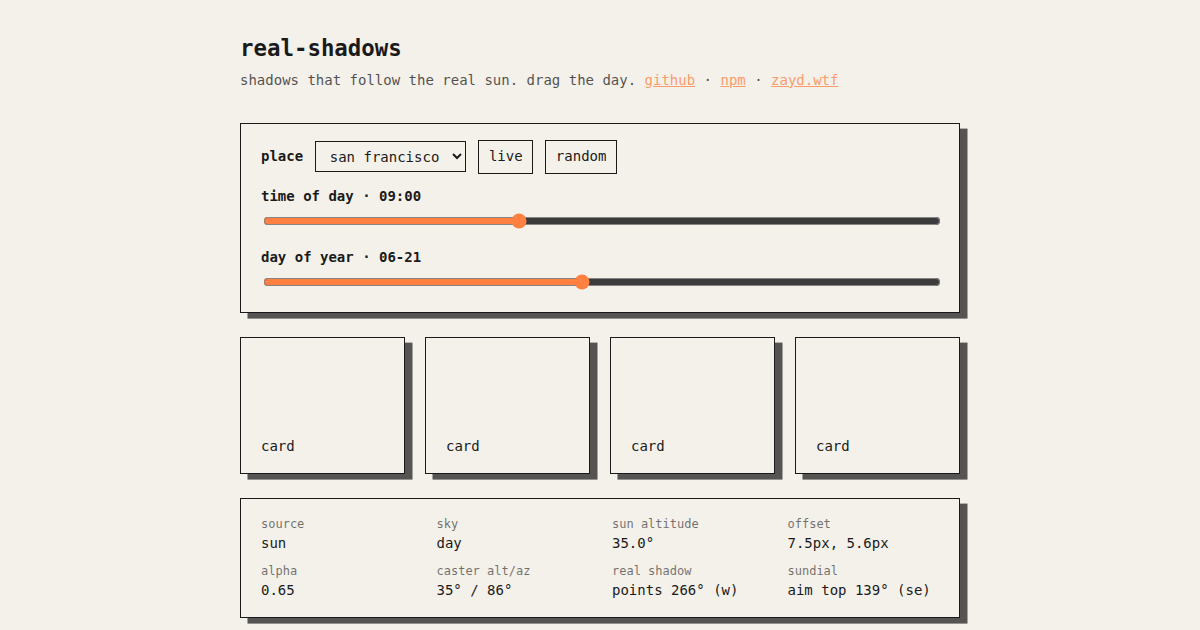
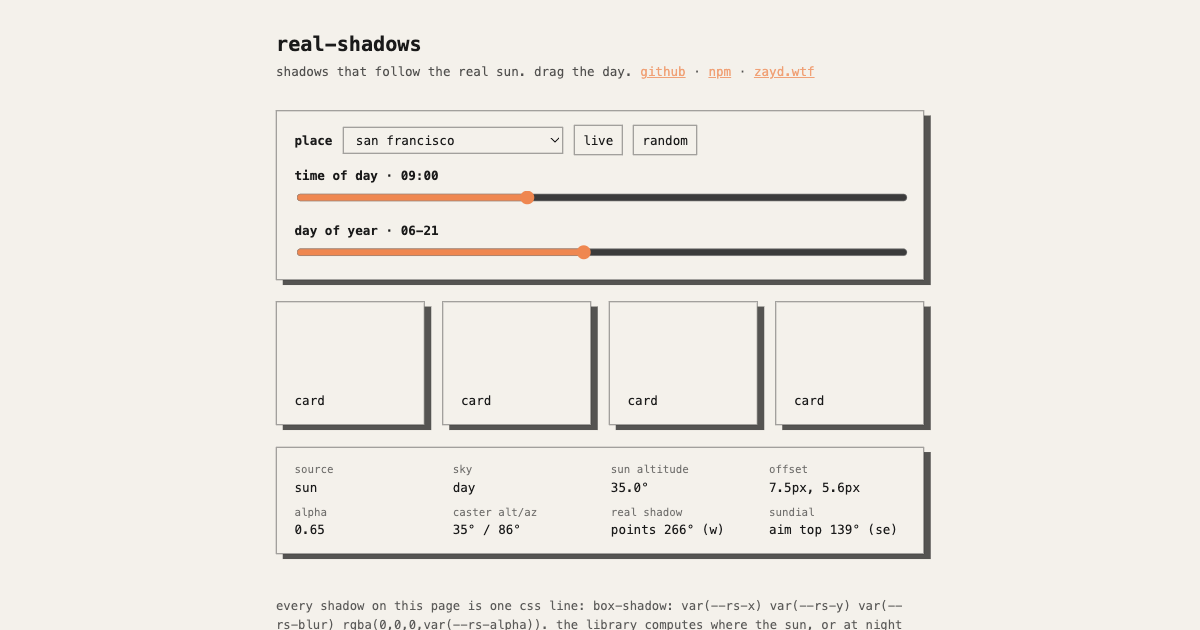
triple-check pass: fresh gif and og from the live ui, cli rejects unknown flags
- assets/demo.gif and assets/og.png re-recorded from the demo as it renders
  today (june 21 over san francisco, dawn to the moon takeover, 58 frames on
  one shared palette; og is the 9am moment its alt text describes)
- cli: an unknown --flag now fails with usage instead of being silently
  ignored (a typo like --date for --at used to print 'now' with exit 0)
- one new cli regression test (40 total)

Changed region(s): [[0.185, 0.0603, 0.8325, 1.0], [0.2158, 0.181, 0.2467, 0.2111]]

diff --git a/src/cli.ts b/src/cli.ts
@@ -30,6 +30,8 @@ if (argv.length === 0 || argv.includes('-h') || argv.includes('--help')) {
 }
 
 const json = argv.includes('--json');
+const unknown = argv.find((a) => a.startsWith('--') && a !== '--json' && a !== '--at' && a !== '--help');
+if (unknown) fail(`unknown flag: ${unknown}`);
 const atIndex = argv.indexOf('--at');
 // guard the -1 case: without --at, `atIndex + 1` is 0 and would eat the latitude.
 // note a bare `-` prefix is legal here, since a west longitude is negative.

diff --git a/test/cli.test.ts b/test/cli.test.ts
@@ -42,4 +42,9 @@ describe.skipIf(!existsSync(CLI))('cli', () => {
     expect(() => run(['abc', '12'])).toThrow();
     expect(() => run(['200', '12'])).toThrow();
   });
+
+  it('rejects a flag it does not know instead of silently running with now', () => {
+    // regression: `--date 2026-01-01` (a typo for --at) used to be ignored
+    expect(() => run(['37.77', '-122.42', '--date', '2026-01-01'])).toThrow();
+  });
 });

diff --git a/CHANGELOG.md b/CHANGELOG.md
@@ -1,5 +1,12 @@
 # changelog
 
+## 1.1.1
+
+- cli: reject unknown flags instead of silently running with "now". a typo
+  like `--date` (for `--at`) used to be ignored and print the current moment
+  with exit 0; it now fails with the usage text
+- fresh readme gif and social card, re-recorded from the current demo ui
+
 ## 1.1.0
 
 - `npx real-shadows <lat> <lon>` prints the shadow being cast over a location
